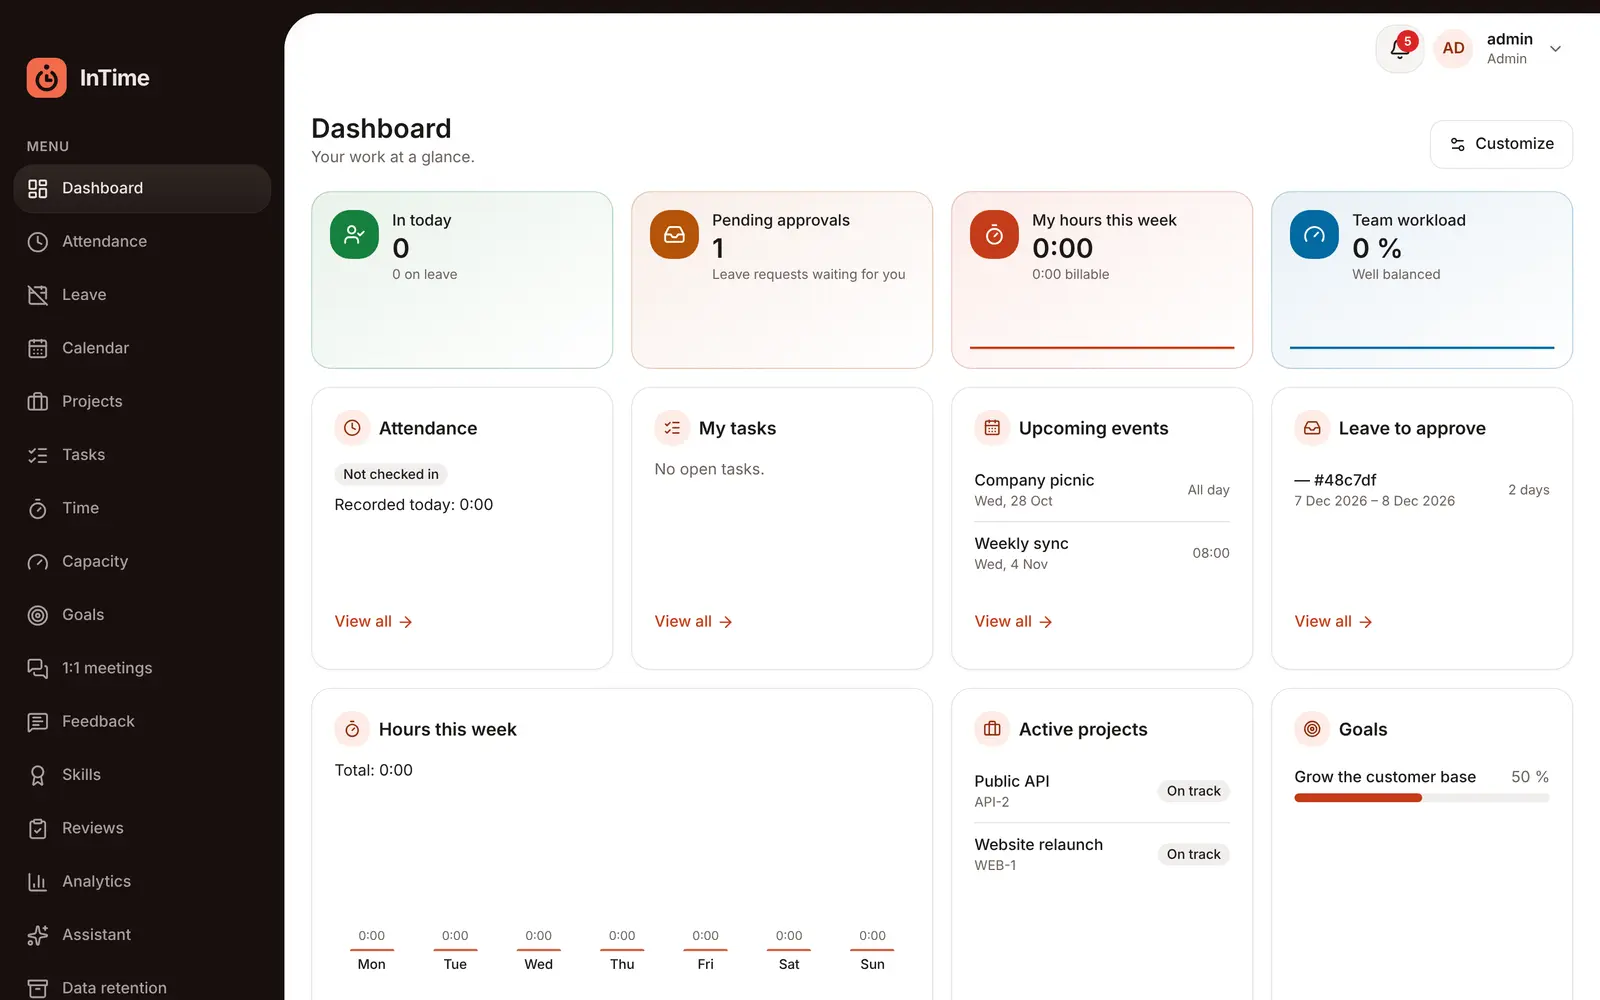
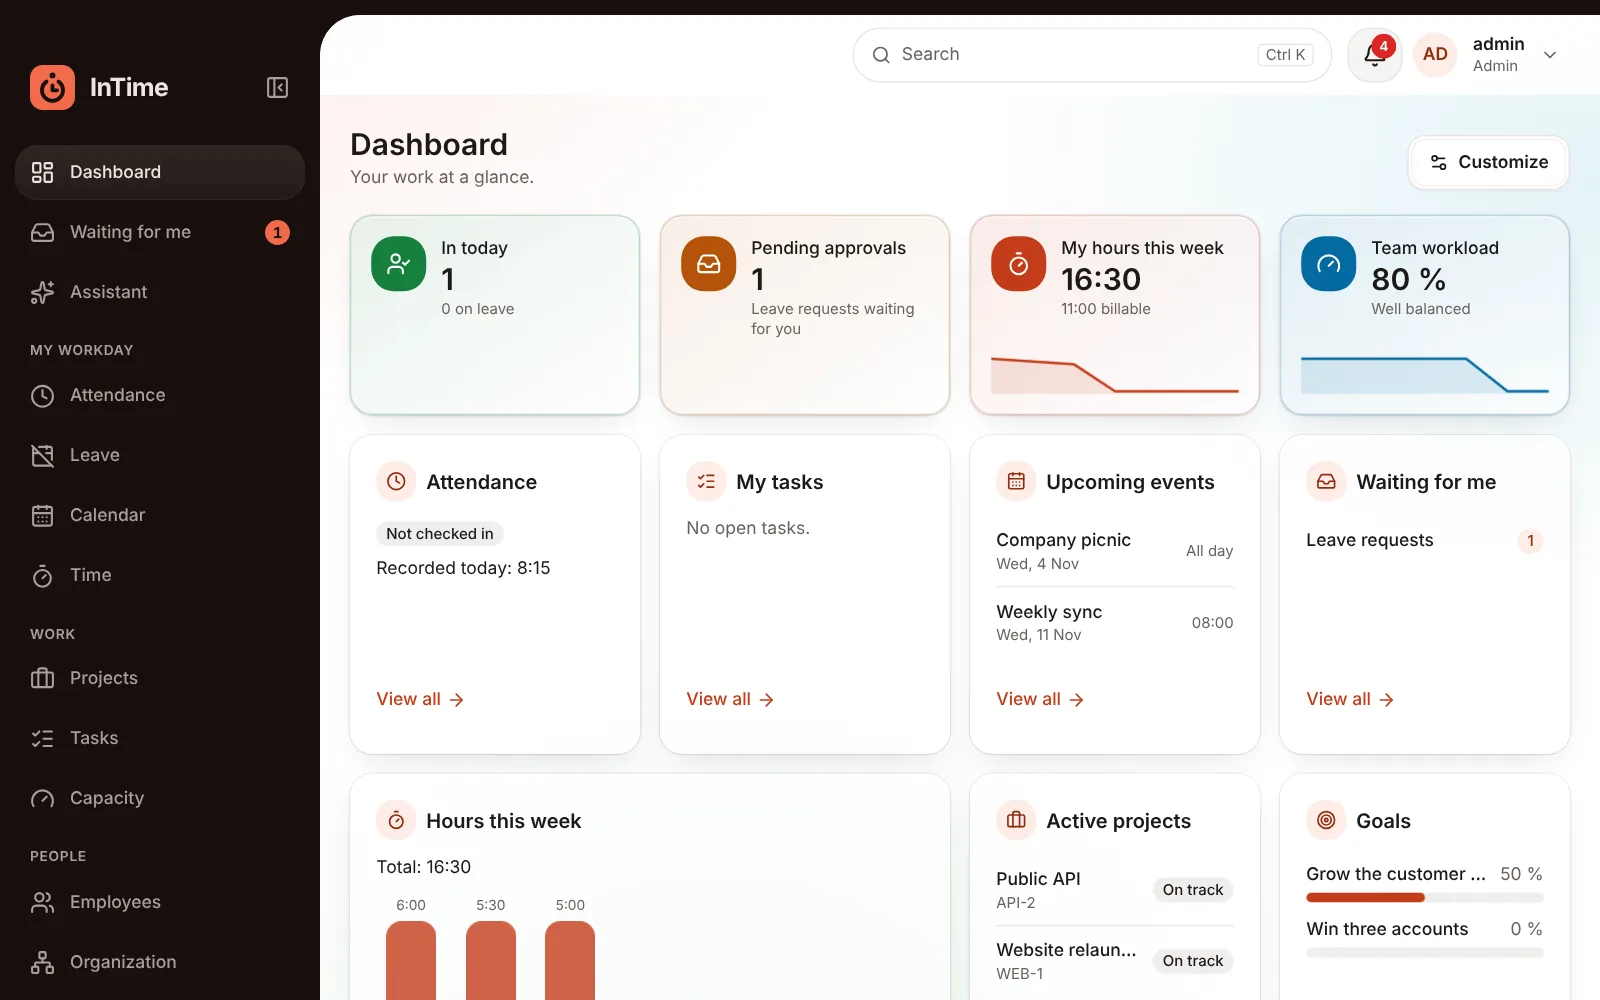
docs: update the readme screenshots and features on main
The readme on main still showed the old screenshots. All images are retaken
from the current app (with hours, attendance and a pending leave request so
the figures are not empty), and the readme gets the What's new section
(Waiting for me, search, checklists, audit log, workspace settings,
collapsible menu).

Claude-Session: https://claude.ai/code/session_01NWcyUybPJRELm2Z16oVowo

diff --git a/README.md b/README.md
@@ -22,6 +22,7 @@
 ## Table of contents
 
 - [Description](#description)
+- [What's new](#whats-new)
 - [How to install and run the project](#how-to-install-and-run-the-project)
 - [How to use the project](#how-to-use-the-project)
 - [Roles and permissions](#roles-and-permissions)
@@ -42,15 +43,16 @@ InTime is a web app for running a team of up to a few hundred people: who works 
 
 ### What it does
 
-- **People:** employee directory and profiles, departments, teams and reporting lines with an org chart, per-person working hours, and pay records for HR (records only, nothing is calculated).
-- **Absence and presence:** leave types, policies and balances with request → approval, public holidays for Bulgaria and Germany, self-reported check-in/check-out with corrections, and a "who is in today" view.
+- **People:** employee directory and profiles, departments, teams and reporting lines with an org chart, per-person working hours, pay records for HR (records only, nothing is calculated), and onboarding and offboarding checklists that start by themselves and remind people before a step is due.
+- **Absence and presence:** leave types, policies and balances with request → approval, public holidays for Bulgaria, Germany and England, self-reported check-in/check-out with corrections, and a "who is in today" view.
 - **Calendar:** month, week, day and agenda views with personal, team and company events, repeating events, guests with answers, "find a time" and reminders. Leave and holidays are shown as layers.
 - **Projects and time:** clients, projects with milestones and staffing, tasks (list and board), a timer and weekly timesheets with approval, reports and CSV export, budget versus actual and team capacity.
 - **Growth:** goals with key results (personal, team, company), 1:1 meetings with private notes and action items, named feedback, a skills matrix and performance review cycles with calibration.
-- **Insight:** a dashboard the administrator arranges from 25 widgets, and analytics with counts only (small groups are hidden).
-- **Administration:** invitations, system and custom roles with a permission editor, an append-only audit log, notifications (in-app and email) with preferences, data export and erasure, and automatic retention for Bulgaria.
+- **Your day in one place:** **Waiting for me** collects everything that needs your decision (leave, timesheets, reviews, checklist steps, reported feedback, invitations) with bulk approve and reject, and the search (**Ctrl+K** / **⌘K**) jumps to any page, person, project, task or common action.
+- **Insight:** a dashboard the administrator arranges from 26 widgets, and analytics with counts only (small groups are hidden).
+- **Administration:** invitations, system and custom roles with a permission editor and a role tree, an append-only audit log with a viewer (filters by area, day, record and person; each reader sees only the areas they administer), notifications (in-app and email) with preferences, data export and erasure, and automatic retention for Bulgaria.
 - **AI assistant (optional, bring your own key):** answers questions about your own data and, if you allow it, about people you may already see, using read-only tools that run with your rights.
-- English, German and Bulgarian; light and dark themes; phone layouts; keyboard-friendly and checked for accessibility on every page.
+- English, German and Bulgarian; light and dark themes; phone layouts; a side menu that folds to icons; keyboard-friendly and checked for accessibility on every page.
 
 ### Why these technologies
 
@@ -70,6 +72,32 @@ InTime is a web app for running a team of up to a few hundred people: who works 
 ### What is planned
 
 Everything in the roadmap is built; the next steps are the first deployment on free plans and file storage (avatars). See the [roadmap](#roadmap).
+
+<p align="right">(<a href="#readme-top">back to top</a>)</p>
+
+## What's new
+
+<table>
+  <tr>
+    <td width="50%"><img src="docs/screenshots/inbox.webp" alt="Waiting for me with two checklist steps to mark done"><br><sub><b>Waiting for me:</b> every decision in one list, with a count in the menu</sub></td>
+    <td width="50%"><img src="docs/screenshots/palette.webp" alt="The search dialog listing pages, sections and actions for 'le'"><br><sub><b>Search (Ctrl+K):</b> pages, sections, actions, people, projects and tasks</sub></td>
+  </tr>
+  <tr>
+    <td width="50%"><img src="docs/screenshots/checklist.webp" alt="An offboarding checklist with four steps, one done, and a progress bar at 25 %"><br><sub><b>Checklists:</b> onboarding and offboarding steps with due dates and reminders</sub></td>
+    <td width="50%"><img src="docs/screenshots/audit-log.webp" alt="The audit log as a timeline with one entry opened to show its recorded data"><br><sub><b>Audit log:</b> who changed what, as a timeline with the recorded data</sub></td>
+  </tr>
+  <tr>
+    <td width="50%"><img src="docs/screenshots/sidebar-collapsed.webp" alt="The task board with the side menu folded to icons"><br><sub><b>Collapsible menu:</b> more room for boards and calendars</sub></td>
+    <td width="50%"><img src="docs/screenshots/workspace.webp" alt="The Workspace settings page with name, time zone, language and country"><br><sub><b>Workspace settings:</b> name, time zone, default language and country</sub></td>
+  </tr>
+</table>
+
+- **Waiting for me** reads the lists you already have access to: pending leave you may approve, submitted timesheets, review parts to write, reported feedback, checklist steps given to you and event invitations you have not answered. Leave and timesheets can be approved or rejected in bulk.
+- **Search** opens with Ctrl+K / ⌘K or the Search button. It finds pages and their sections, common actions (request leave, log time, new event…) and, after two letters, people, projects and tasks you may see. Nothing you type is stored.
+- **Onboarding and offboarding checklists** copy their steps from a template when a person joins or leaves. Each step is given to the person, their manager or HR, and has a due date counted from the start or leaving date. The person a step is given to is reminded the day before and on the day it is due. The employee profile shows the person's checklists.
+- **Audit log viewer** (Administration → Audit log): entries grouped by day, filters by area, dates, one record or one person. HR sees the HR areas and never the workspace settings. Entries hold ids and field names only, never personal data.
+- **Workspace settings** (Administration → Workspace): the administrator changes the workspace name, time zone, default language and default holiday country. The address name stays fixed.
+- **Collapsible side menu:** fold the desktop menu to an icon rail and back; the choice is remembered, and each icon shows its name on hover and keyboard focus.
 
 <p align="right">(<a href="#readme-top">back to top</a>)</p>
 
@@ -127,11 +155,12 @@ A pre-commit hook (Husky + lint-staged) lints and formats staged files, and comm
 ## How to use the project
 
 1. **Set up the company** as the administrator: add departments and teams under **Organization**, invite people under **Employees** and give them a manager and a role. Leave types and policies are under **Leave → Settings**.
-2. **Every day:** check in and out under **Attendance**, request leave under **Leave**, see the team and company **Calendar**, and log hours with the timer under **Time**. The bell shows what needs your attention.
-3. **Managers** approve leave and timesheets, see who is in, plan **Capacity** and staff **Projects**, assign **Tasks**, hold **1:1 meetings** and write reviews.
+2. **Every day:** check in and out under **Attendance**, request leave under **Leave**, see the team and company **Calendar**, and log hours with the timer under **Time**. **Waiting for me** lists what needs your decision, the bell shows notifications, and **Ctrl+K** takes you anywhere.
+3. **Managers** approve leave and timesheets (one by one or in bulk), see who is in, plan **Capacity** and staff **Projects**, assign **Tasks**, hold **1:1 meetings**, write reviews and follow the **Checklists** of new joiners and leavers.
 4. **Growth:** set **Goals** with key results, give **Feedback**, rate **Skills** and take part in **Reviews** when HR opens a cycle.
 5. **Overview:** the **Dashboard** shows the widgets the administrator chose (each person only sees what they may), and **Analytics** shows totals for a period.
-6. **Your data:** under **Profile** you can download everything the app holds about you. HR can export or erase the data of a former employee.
+6. **Administration:** build **Roles**, set **Data retention**, and read the **Audit log** to see who changed what.
+7. **Your data:** under **Profile** you can download everything the app holds about you. HR can export or erase the data of a former employee.
 
 <table>
   <tr>
@@ -144,7 +173,7 @@ A pre-commit hook (Husky + lint-staged) lints and formats staged files, and comm
   </tr>
   <tr>
     <td width="50%"><img src="docs/screenshots/leave.webp" alt="Leave balance and the request form"><br><sub>Leave</sub></td>
-    <td width="50%"><img src="docs/screenshots/phone.webp" alt="Dashboard and calendar on a phone"><br><sub>On a phone</sub></td>
+    <td width="50%"><img src="docs/screenshots/phone.webp" alt="The dashboard and Waiting for me on a phone"><br><sub>On a phone</sub></td>
   </tr>
 </table>
 
@@ -193,7 +222,7 @@ Production values (cookies, proxy hops, email) are described in the [deployment 
 ## Tests
 
 - `pnpm test`: unit tests in every package and API tests against a real database when `TEST_DATABASE_URL` is set (CI always sets it). Every feature has positive and negative cases: wrong role, wrong company, not found, duplicates, boundaries. Every tenant table has an isolation test, every route must declare its protection (a test lists them), and the permission matrix is tested role by role.
-- `pnpm --filter @intime/e2e e2e`: browser tests with Playwright against a fresh database, a real `tenant:create` and the Vite dev server. They cover onboarding, leave, attendance, calendar, projects, tasks, time, reports, capacity, goals, 1:1s, feedback, skills, reviews, analytics, compensation, roles, privacy and retention, the dashboard and motion. Set `E2E_DATABASE_URL` to a Postgres owner URL first.
+- `pnpm --filter @intime/e2e e2e`: browser tests with Playwright against a fresh database, a real `tenant:create` and the Vite dev server. They cover onboarding, leave, attendance, calendar, projects, tasks, time, reports, capacity, goals, 1:1s, feedback, skills, reviews, analytics, compensation, roles, privacy and retention, checklists, the audit log, search, the collapsible menu, the dashboard and motion. Set `E2E_DATABASE_URL` to a Postgres owner URL first.
 - **Accessibility:** `06-accessibility.spec.ts` scans every page with axe (WCAG 2.1 A and AA) on a phone and a desktop, in light and dark.
 
 CI runs the format check, lint, type checks, all tests and the build on every push and pull request, and the browser tests as a separate job.
@@ -206,7 +235,7 @@ Everything runs on free EU plans:
 Browser ──► Cloudflare Pages (web app + /api proxy function) ──► Render, Frankfurt (API)
                                                                    ├──► Neon, Frankfurt (Postgres)
                                                                    └──► Resend (emails)
-GitHub Actions ──► CI, deploy on main, hourly reminder ping
+GitHub Actions ──► CI, deploy on main, hourly reminder ping (attendance, timers, events, checklist steps)
 ```
 
 Releases go only through `.github/workflows/deploy.yml` on `main` after CI. Migrations run before the new code, so every migration stays compatible with the previous release. Step-by-step guide: [`docs/deployment.md`](docs/deployment.md).
@@ -234,7 +263,7 @@ Inside the apps, code is organised by feature: `apps/web/src/features/<feature>`
 | [`docs/permission-matrix.md`](docs/permission-matrix.md) | Every permission with its scopes and default roles (generated) |
 | [`docs/roadmap.md`](docs/roadmap.md)                     | Phases, scope and the definition of done                       |
 | [`docs/deployment.md`](docs/deployment.md)               | Deploying on free plans and operating the live site            |
-| [`docs/adr/`](docs/adr)                                  | 34 decision records, one per feature or design choice          |
+| [`docs/adr/`](docs/adr)                                  | 42 decision records, one per feature or design choice          |
 | [`CLAUDE.md`](CLAUDE.md)                                 | Working rules and conventions for each module                  |
 
 <p align="right">(<a href="#readme-top">back to top</a>)</p>
@@ -248,6 +277,7 @@ Inside the apps, code is organised by feature: `apps/web/src/features/<feature>`
 - [x] Performance reviews and analytics
 - [x] AI assistant, repeating events with guests and reminders, working hours, retention for Bulgaria, compensation records, role editor
 - [x] Customizable dashboard, motion, new visual style, logo and splash screen
+- [x] Waiting for me, search (Ctrl+K), onboarding and offboarding checklists with reminders, audit log viewer, collapsible menu
 - [ ] First deployment on free plans
 - [ ] File storage (avatars, attachments)
 - [ ] Retention presets for more countries
